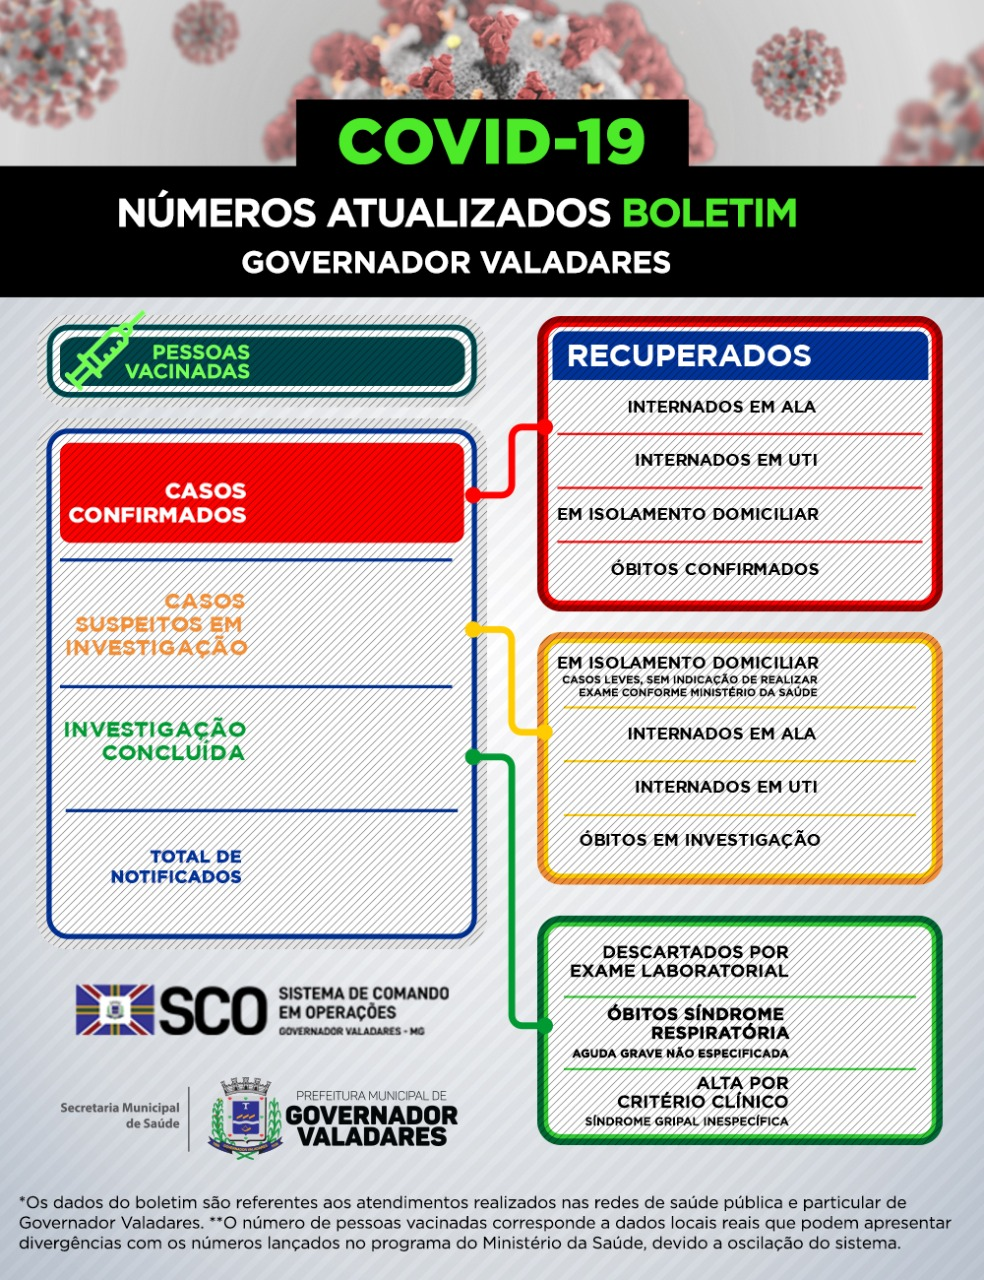
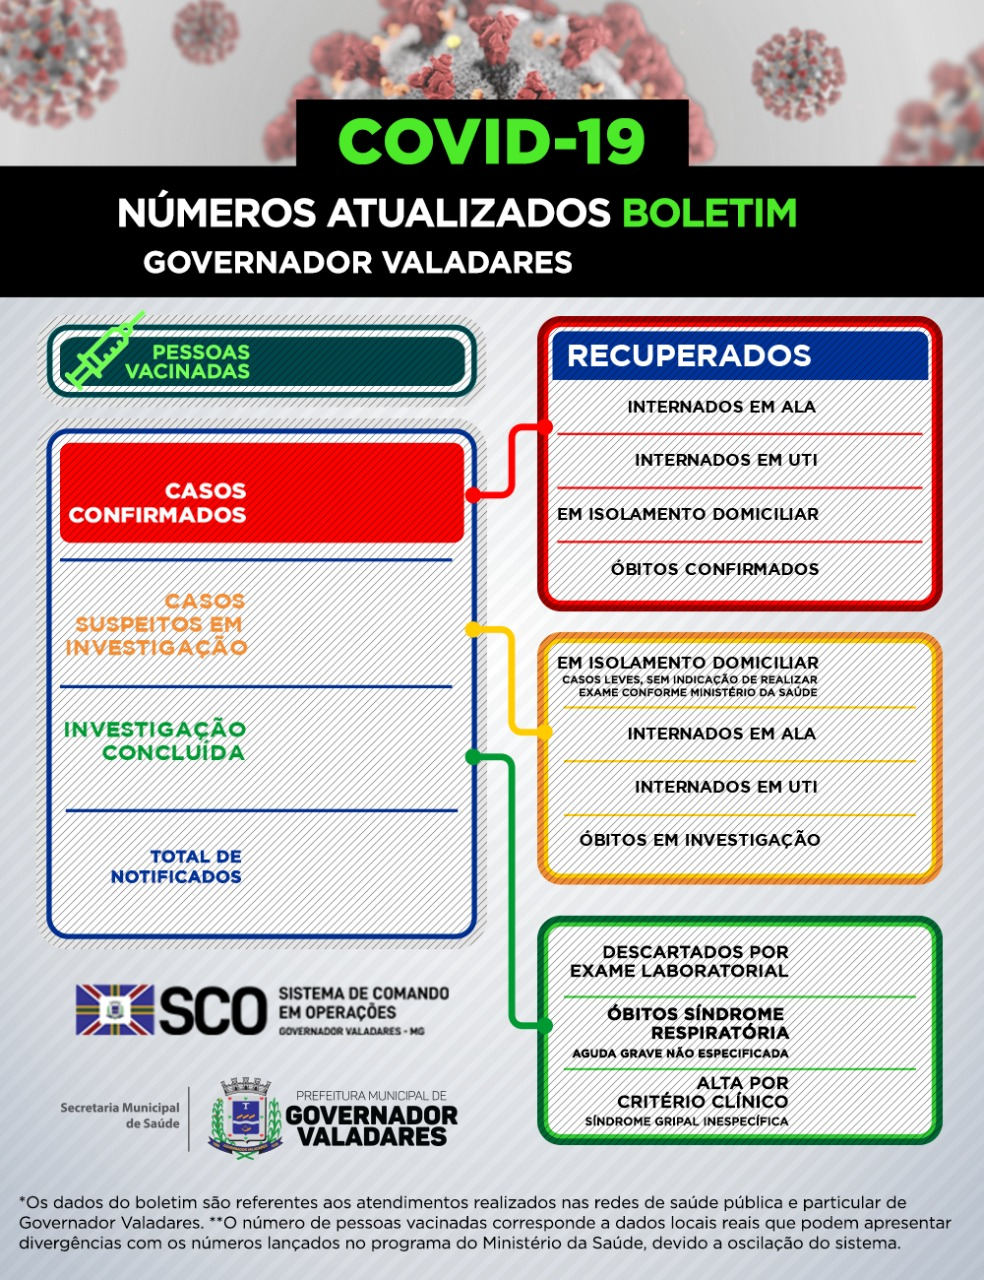
adjustments on boletim date field position

Changed region(s): [[0.1524, 0.1875, 0.7012, 0.2188]]

diff --git a/src/screens/CreateCovidReport.tsx b/src/screens/CreateCovidReport.tsx
@@ -40,7 +40,7 @@ const _fields = [
   {
     x: 810,
     y: 193,
-    weight: 67,
+    width: 67,
     color: "#6AD755",
     font: typography.h2,
     textAlign: "left",
@@ -48,9 +48,9 @@ const _fields = [
     transform: "number",
   },
   {
-    x: 680,
+    x: 583,
     y: 247,
-    weight: 276,
+    width: 251,
     color: "#6AD755",
     font: typography.h3,
     textAlign: "left",
@@ -69,10 +69,9 @@ const _fields = [
   // vacinados
   //
   {
-    id: "vacinados",
     x: 238,
     y: 342,
-    weight: 208,
+    width: 208,
     color: "colors.lightGreen",
     font: typography.h2,
     textAlign: "right",
@@ -83,10 +82,9 @@ const _fields = [
   //
   //
   {
-    id: "casos.confirmados",
     x: 238,
     y: 471,
-    weight: 208,
+    width: 208,
     color: "#FFFFFF",
     font: typography.h1,
     textAlign: "right",
@@ -101,7 +99,7 @@ const _fields = [
   {
     x: 238,
     y: 596,
-    weight: 208,
+    width: 208,
     color: colors.orange,
     font: typography.h1,
     textAlign: "right",
@@ -112,7 +110,7 @@ const _fields = [
   {
     x: 238,
     y: 715,
-    weight: 208,
+    width: 208,
     color: colors.green,
     font: typography.h1,
     textAlign: "right",
@@ -124,7 +122,7 @@ const _fields = [
     id: "",
     x: 238,
     y: 834,
-    weight: 208,
+    width: 208,
     color: colors.blue,
     font: typography.h1,
     textAlign: "right",
@@ -147,7 +145,7 @@ const _fields = [
   {
     x: 810,
     y: 340,
-    weight: 105,
+    width: 105,
     color: "#FFFFFF",
     font: typography.h3,
     textAlign: "right",
@@ -158,7 +156,7 @@ const _fields = [
     id: "casos.confirmados.ala",
     x: 810,
     y: 392,
-    weight: 105,
+    width: 105,
     color: colors.red,
     font: typography.h3,
     textAlign: "right",
@@ -169,7 +167,7 @@ const _fields = [
     id: "casos.confirmados.uti",
     x: 810,
     y: 450,
-    weight: 105,
+    width: 105,
     color: colors.red,
     font: typography.h3,
     textAlign: "right",
@@ -180,7 +178,7 @@ const _fields = [
     id: "casos.confirmados.domicilio  ",
     x: 810,
     y: 500,
-    weight: 105,
+    width: 105,
     color: colors.red,
     font: typography.h3,
     textAlign: "right",
@@ -191,7 +189,7 @@ const _fields = [
     id: "casos.confirmados.obitos",
     x: 810,
     y: 550,
-    weight: 105,
+    width: 105,
     color: colors.red,
     font: typography.h3,
     textAlign: "right",
@@ -205,7 +203,7 @@ const _fields = [
   {
     x: 810,
     y: 663,
-    weight: 105,
+    width: 105,
     color: colors.orange,
     font: typography.h3,
     textAlign: "right",
@@ -215,7 +213,7 @@ const _fields = [
   {
     x: 810,
     y: 723,
-    weight: 105,
+    width: 105,
     color: colors.orange,
     font: typography.h3,
     textAlign: "right",
@@ -225,7 +223,7 @@ const _fields = [
   {
     x: 810,
     y: 773,
-    weight: 105,
+    width: 105,
     color: colors.orange,
     font: typography.h3,
     textAlign: "right",
@@ -236,7 +234,7 @@ const _fields = [
     id: "casos.suspeitos.domicilio",
     x: 810,
     y: 827,
-    weight: 105,
+    width: 105,
     color: colors.orange,
     font: typography.h3,
     textAlign: "right",
@@ -251,7 +249,7 @@ const _fields = [
     id: "casos.descartados.exame",
     x: 810,
     y: 949,
-    weight: 105,
+    width: 105,
     color: colors.green,
     font: typography.h3,
     textAlign: "right",
@@ -262,7 +260,7 @@ const _fields = [
     id: "casos.descartados.sars",
     x: 810,
     y: 1021,
-    weight: 105,
+    width: 105,
     color: colors.green,
     font: typography.h3,
     textAlign: "right",
@@ -273,7 +271,7 @@ const _fields = [
     id: "casos.descartados.alta",
     x: 810,
     y: 1087,
-    weight: 105,
+    width: 105,
     color: colors.green,
     font: typography.h3,
     textAlign: "right",

diff --git a/src/components/BoletimPreview.tsx b/src/components/BoletimPreview.tsx
@@ -34,12 +34,12 @@ const BoletimPreview = (props: BoletimPreviewProps) => {
         ctx.lineWidth = 2;
         ctx.fillText(
           label.value,
-          label.textAlign === "right" ? label.x + label.weight : label.x,
+          label.textAlign === "right" ? label.x + label.width : label.x,
           label.y
         );
         ctx.strokeText(
           label.value,
-          label.textAlign === "right" ? label.x + label.weight : label.x,
+          label.textAlign === "right" ? label.x + label.width : label.x,
           label.y
         );
       });
